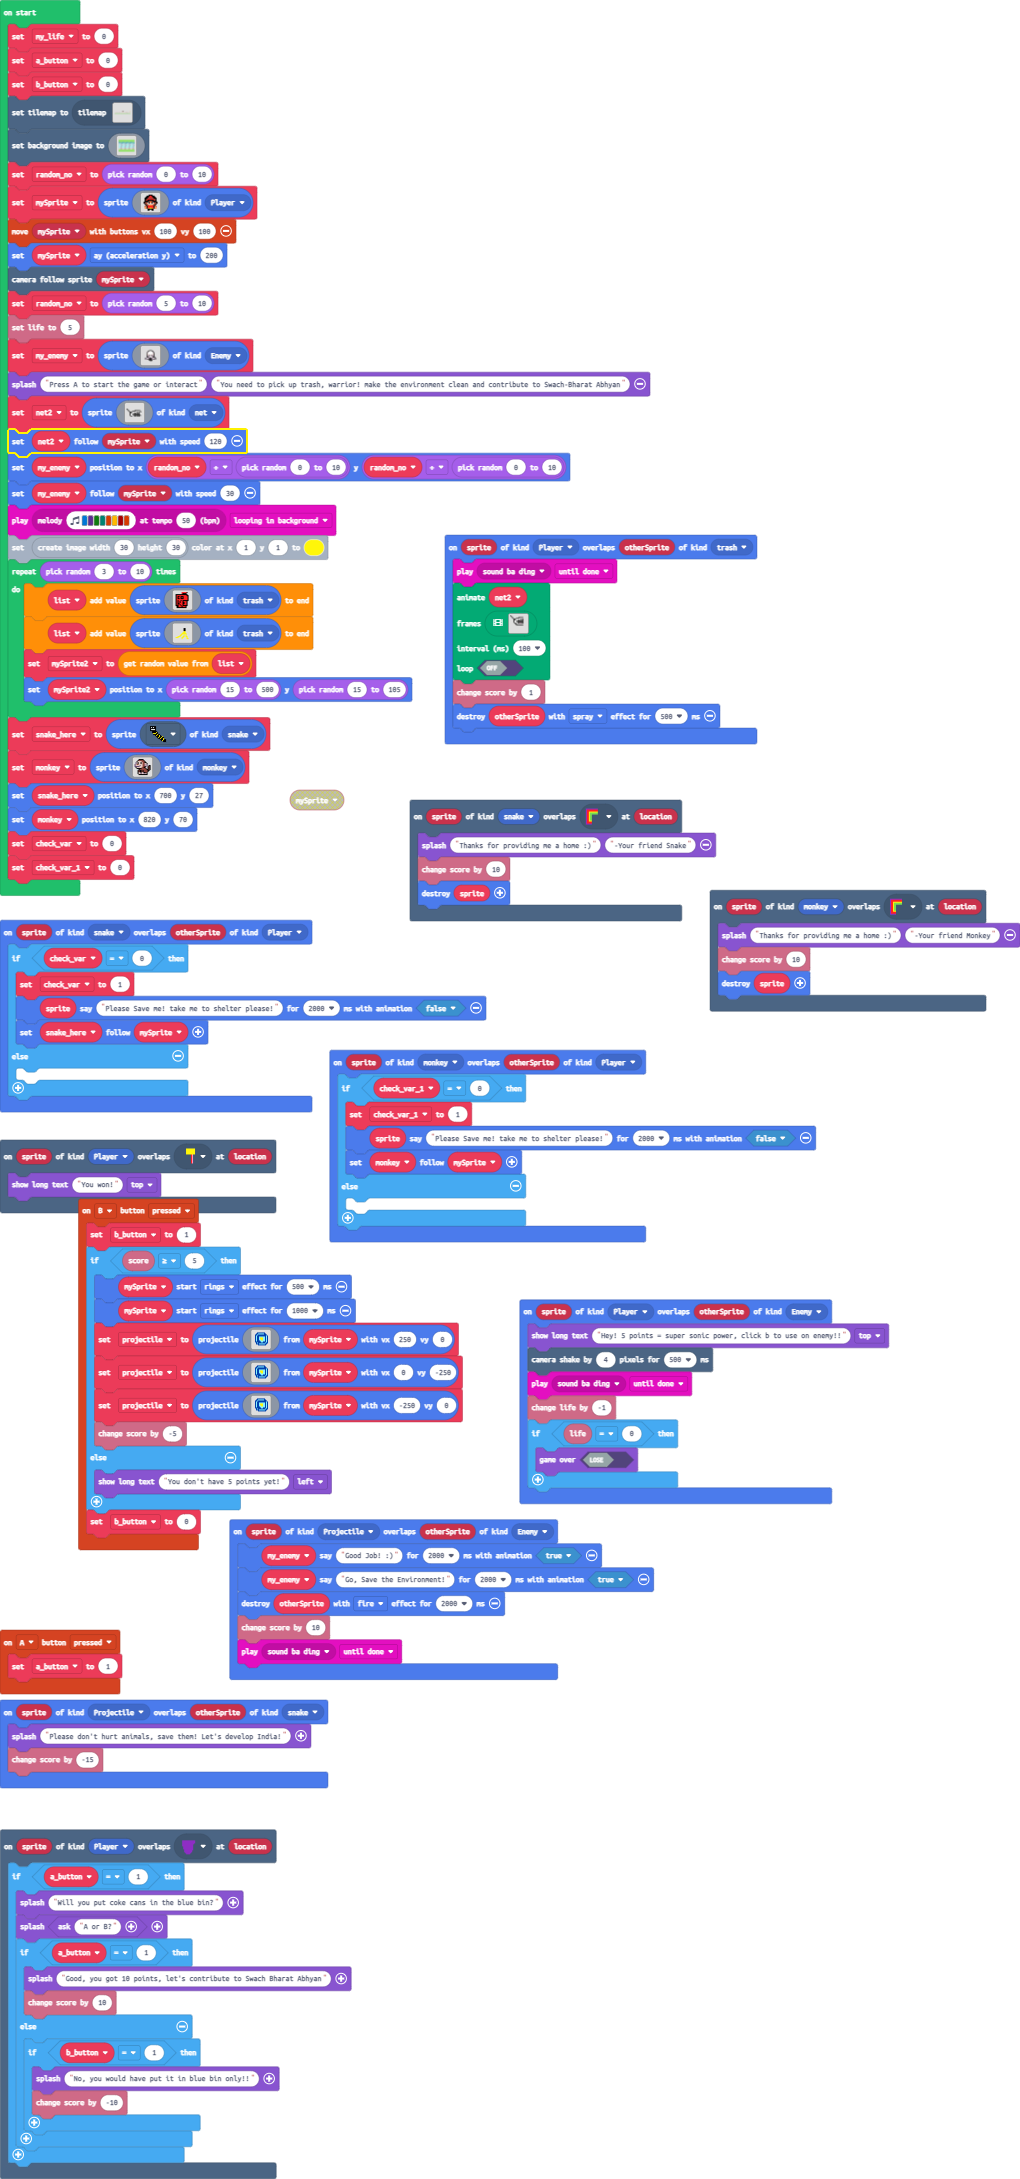
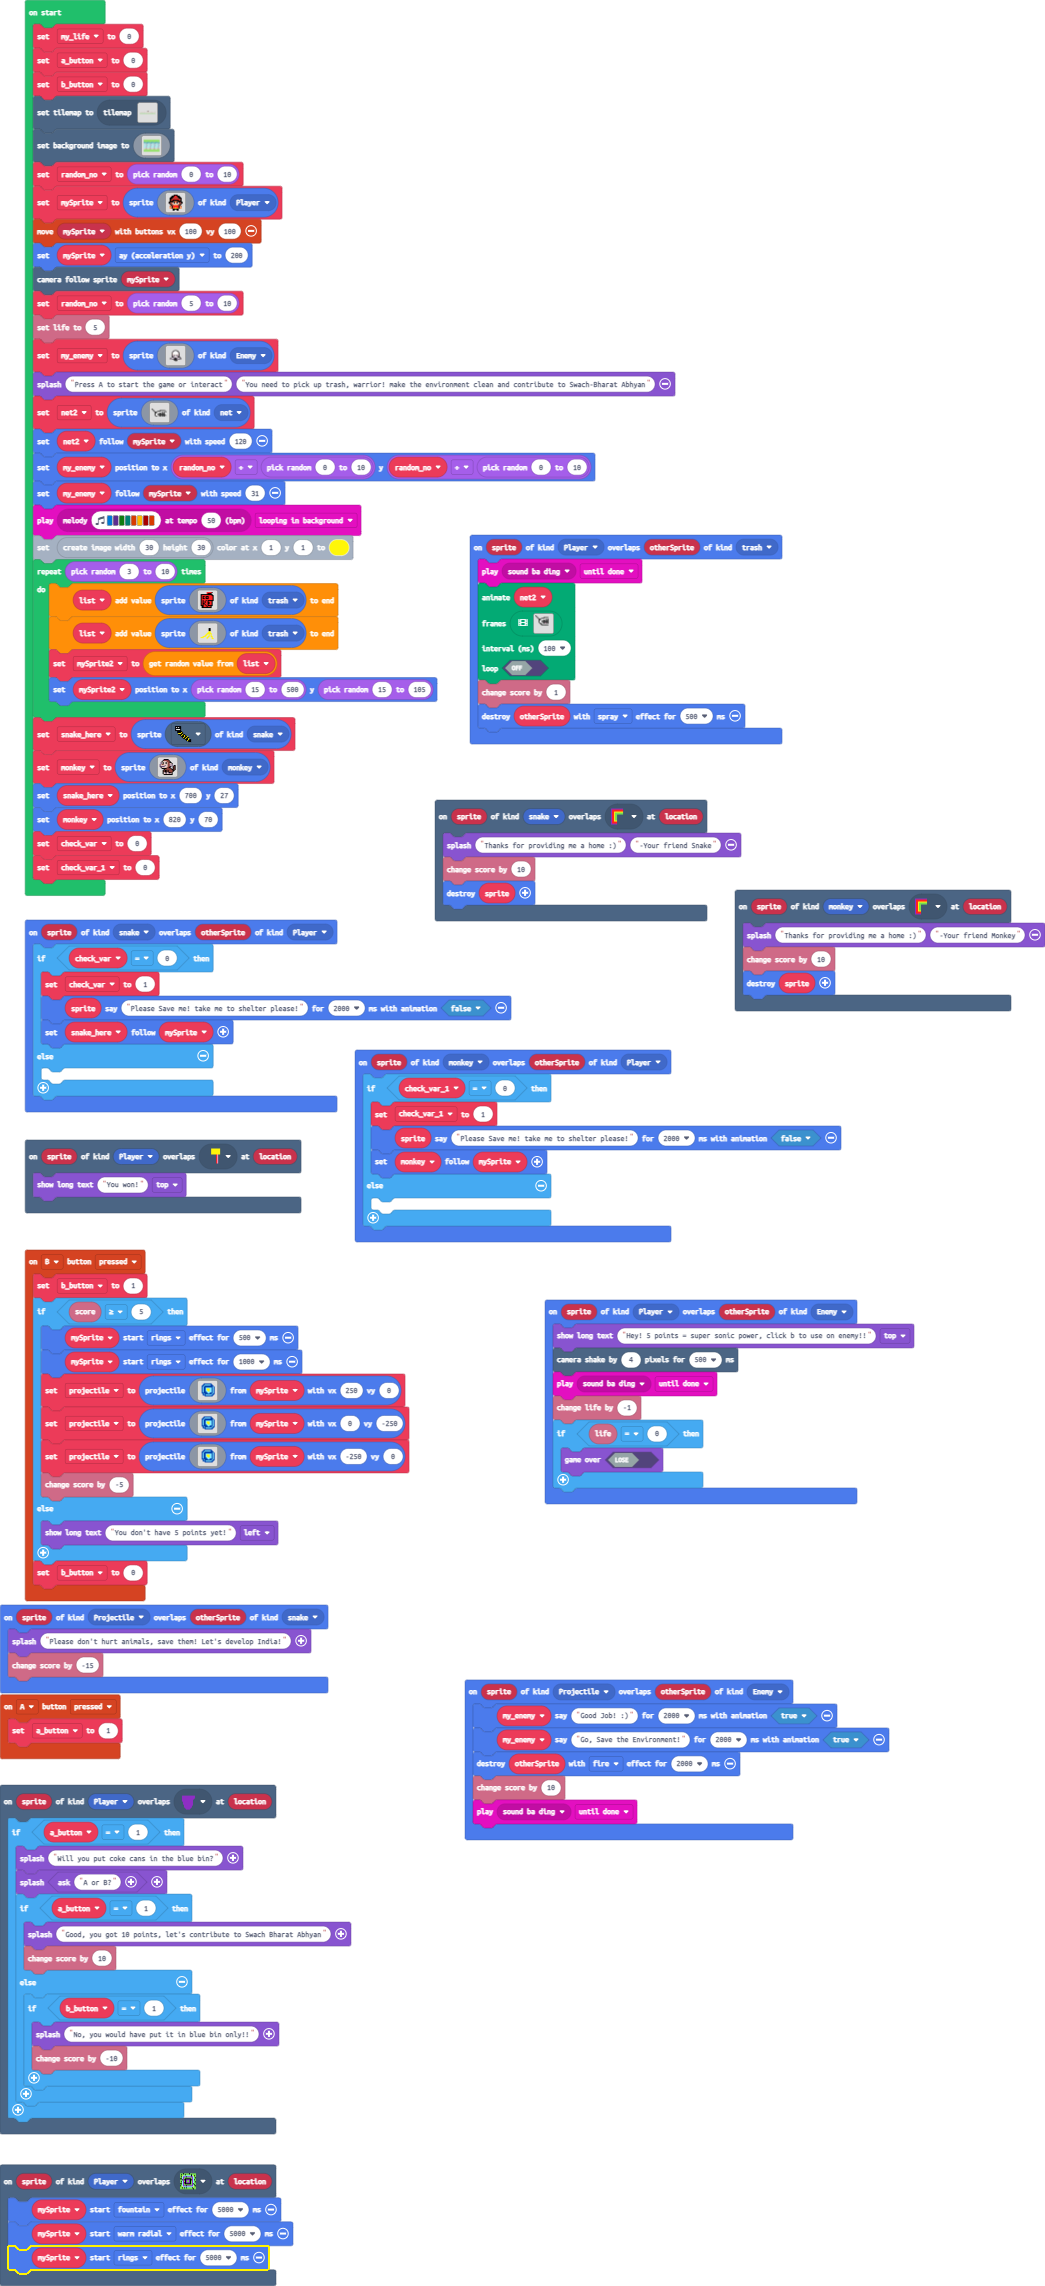
phase 1 done

diff --git a/tilemap.g.ts b/tilemap.g.ts
@@ -22,6 +22,8 @@ namespace myTiles {
     export const tile8 = image.ofBuffer(hex``);
     //% fixedInstance jres blockIdentity=images._tile
     export const tile10 = image.ofBuffer(hex``);
+    //% fixedInstance jres blockIdentity=images._tile
+    export const tile11 = image.ofBuffer(hex``);
 
     helpers._registerFactory("tilemap", function(name: string) {
         switch(helpers.stringTrim(name)) {
@@ -121,7 +123,7 @@ namespace myTiles {
 . . . . . . . . . . . . . . . . 
 `, [myTiles.transparency16], TileScale.Sixteen);
             case "level1":
[2 lines of base64/hex data omitted]
 ............................2...............................
 ............................2...............................
 ................2222........22............2222222......2222.
@@ -132,7 +134,7 @@ namespace myTiles {
 ..........2......2...........22222................2222......
 222222222222222222222222222222222222222222222222222222222222
 222222222222222222222222222222222222222222222222222222222222
-`, [myTiles.transparency16,sprites.castle.tileGrass2,sprites.castle.tileDarkGrass2,myTiles.tile1,myTiles.tile2,myTiles.tile3,myTiles.tile4,myTiles.tile7,myTiles.tile6,myTiles.tile8,myTiles.tile10], TileScale.Sixteen);
+`, [myTiles.transparency16,sprites.castle.tileGrass2,sprites.castle.tileDarkGrass2,myTiles.tile1,myTiles.tile3,myTiles.tile4,myTiles.tile7,myTiles.tile6,myTiles.tile8,myTiles.tile10,myTiles.tile11], TileScale.Sixteen);
         }
         return null;
     })
@@ -160,6 +162,8 @@ namespace myTiles {
             case "tile8":return tile8;
             case "myTile8":
             case "tile10":return tile10;
+            case "myTile9":
+            case "tile11":return tile11;
         }
         return null;
     })

diff --git a/main.ts b/main.ts
@@ -90,6 +90,11 @@ controller.B.onEvent(ControllerButtonEvent.Pressed, function () {
 controller.A.onEvent(ControllerButtonEvent.Pressed, function () {
     a_button = 1
 })
+scene.onOverlapTile(SpriteKind.Player, assets.tile`myTile9`, function (sprite, location) {
+    mySprite.startEffect(effects.fountain, 5000)
+    mySprite.startEffect(effects.warmRadial, 5000)
+    mySprite.startEffect(effects.rings, 5000)
+})
 sprites.onOverlap(SpriteKind.Projectile, SpriteKind.snake, function (sprite, otherSprite) {
     game.splash("Please don't hurt animals, save them! Let's develop India!")
     info.changeScoreBy(-15)
@@ -435,7 +440,7 @@ net2 = sprites.create(img`
     `, SpriteKind.net)
 net2.follow(mySprite, 120)
 my_enemy.setPosition(random_no + randint(0, 10), random_no + randint(0, 10))
-my_enemy.follow(mySprite, 30)
+my_enemy.follow(mySprite, 31)
 music.play(music.stringPlayable("E D G F B A C5 B ", 50), music.PlaybackMode.LoopingInBackground)
 image.create(30, 30).setPixel(1, 1, 5)
 for (let index = 0; index < randint(3, 10); index++) {
